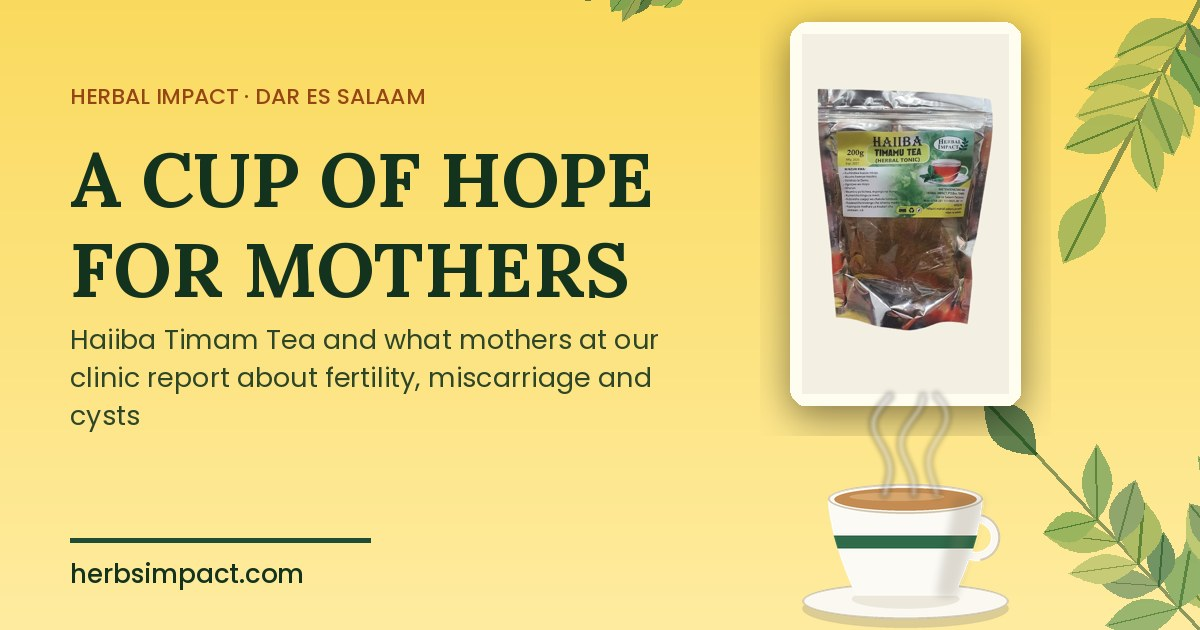
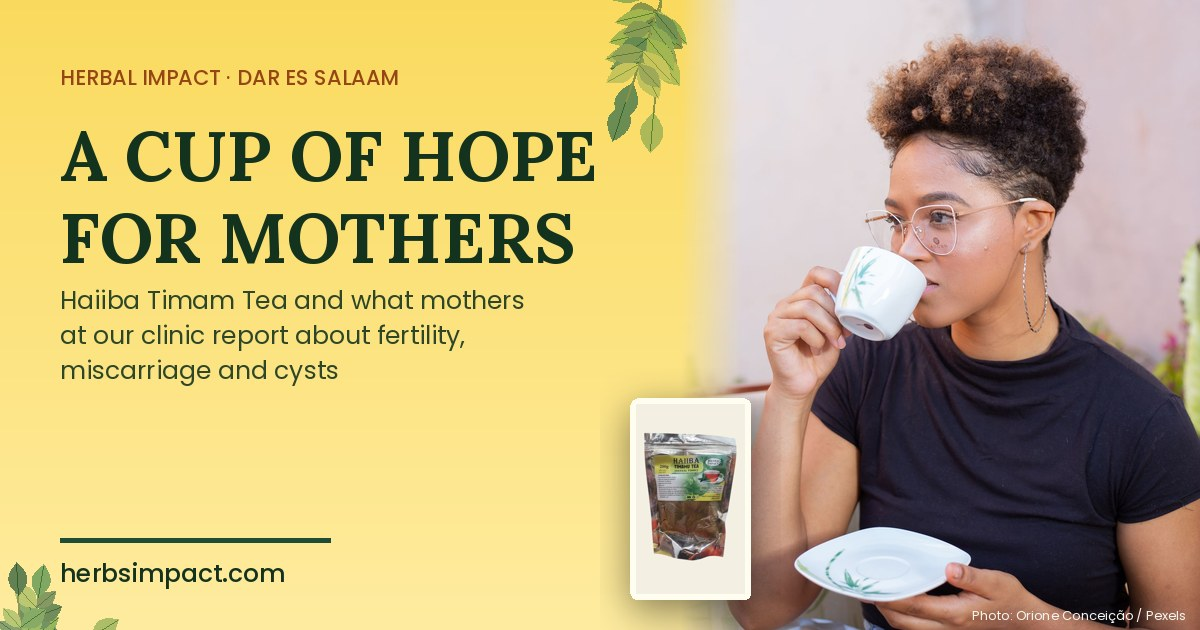
Use woman-with-cup header image for A Cup of Hope for Mothers articles
Claude-Session: https://claude.ai/code/session_01HMAF71yw3vYJaYsxeT1iH9

diff --git a/content/blog/kikombe-cha-matumaini-kwa-akina-mama-chai-ya-haiiba-timam.md b/content/blog/kikombe-cha-matumaini-kwa-akina-mama-chai-ya-haiiba-timam.md
@@ -4,7 +4,7 @@ seo_title: "Kikombe cha Matumaini kwa Akina Mama: Chai ya Haiiba Timam na Afya y
 category: AFYA YA WANAWAKE
 read_time: DAKIKA 7 ZA KUSOMA
 cover_image: /assets/uploads/a-cup-of-hope-for-mothers-sw.jpg
-cover_image_alt: Kifurushi cha Chai ya Haiiba Timam na kikombe cha chai kinachofuka moshi, kwa afya ya uzazi ya akina mama, Herbal Impact Dar es Salaam
+cover_image_alt: Mwanamke akinywa chai ya mitishamba kwenye kikombe cheupe karibu na kifurushi cha Chai ya Haiiba Timam, Herbal Impact Dar es Salaam
 swahili_link: blog-16.html
 description: Unatafuta mtoto, mimba haikai au una uvimbe kwenye kizazi? Soma akina mama wa Herbal Impact, Dar es Salaam, wanasema nini kuhusu Chai ya Haiiba Timam.
 ---

diff --git a/content/blog/a-cup-of-hope-for-mothers-haiiba-timam-tea-fertility.md b/content/blog/a-cup-of-hope-for-mothers-haiiba-timam-tea-fertility.md
@@ -4,7 +4,7 @@ seo_title: "A Cup of Hope for Mothers: Haiiba Timam Herbal Tea for Women's Repro
 category: WOMEN'S HEALTH
 read_time: 7 MIN READ
 cover_image: /assets/uploads/a-cup-of-hope-for-mothers-en.jpg
-cover_image_alt: Haiiba Timam herbal tea packet and a steaming cup of tea, for women's reproductive health, Herbal Impact Dar es Salaam
+cover_image_alt: Woman drinking herbal tea from a white cup beside a packet of Haiiba Timam Tea, Herbal Impact Dar es Salaam
 swahili_link: blog-16-sw.html
 description: Trying to conceive, losing pregnancies or living with ovarian cysts? Read what mothers at Herbal Impact, Dar es Salaam, report after using Haiiba Timam Tea.
 ---
